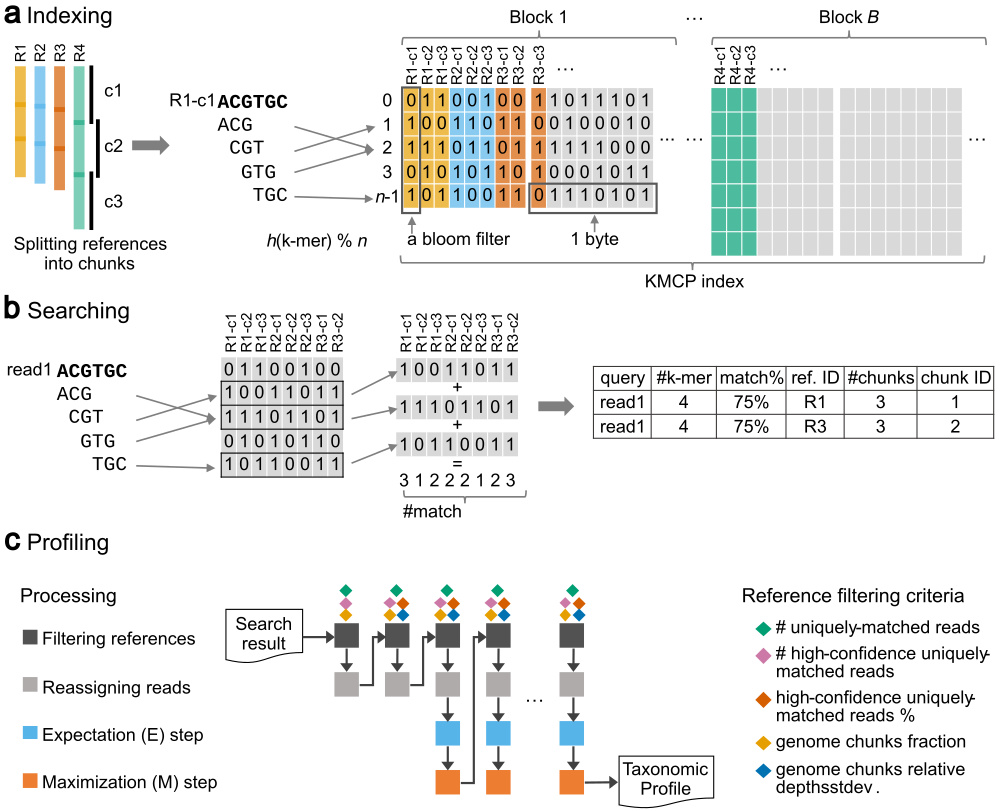
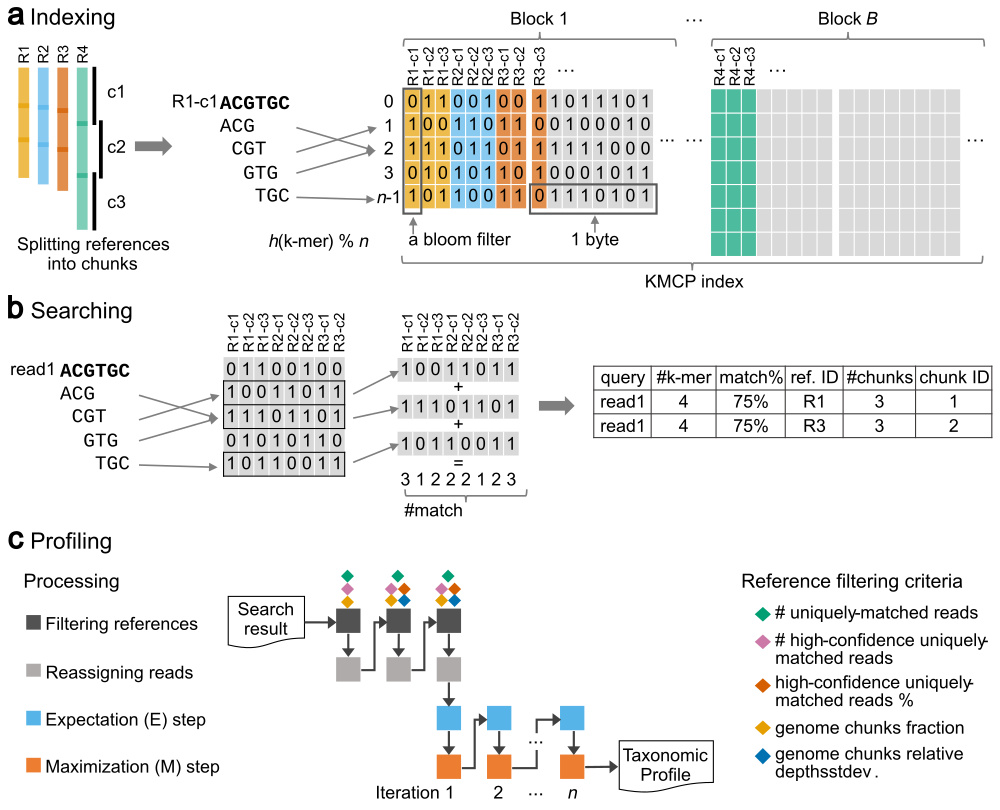
profile: do not filter reference during EM-step

diff --git a/kmcp/cmd/profile.go b/kmcp/cmd/profile.go
@@ -2287,7 +2287,7 @@ Examples:
 				for _, c1 = range t.UniqMatch {
 					t.SumUniqMatch += c1
 				}
-				if t.SumUniqMatch < minUReads {
+				if iter > 0 && t.SumUniqMatch < minUReads {
 					if debug {
 						if taxdb != nil {
 							fmt.Fprintf(outfhD, "failed3: %s (%s), 90th percentile: %.2f, %s: %.0f\n",
@@ -2307,7 +2307,7 @@ Examples:
 				for _, c1 = range t.UniqMatchHic {
 					t.SumUniqMatchHic += c1
 				}
-				if t.SumUniqMatchHic < minHicUreads {
+				if iter > 0 && t.SumUniqMatchHic < minHicUreads {
 					if debug {
 						if taxdb != nil {
 							fmt.Fprintf(outfhD, "failed3: %s (%s), 90th percentile: %.2f, %s: %.0f\n",
@@ -2324,7 +2324,7 @@ Examples:
 					continue
 				}
 
-				if t.SumUniqMatchHic < HicUreadsMinProp*t.SumUniqMatch {
+				if iter > 0 && t.SumUniqMatchHic < HicUreadsMinProp*t.SumUniqMatch {
 					if debug {
 						if taxdb != nil {
 							fmt.Fprintf(outfhD, "failed3: %s (%s), 90th percentile: %.2f, %s: %.4f (%.0f/%.0f)\n",
@@ -2350,7 +2350,7 @@ Examples:
 					t.SumMatch += c
 				}
 				t.FragsProp = t.FragsProp / float64(len(t.Match))
-				if t.FragsProp < minFragsProp {
+				if iter > 0 && t.FragsProp < minFragsProp {
 					if debug {
 						if taxdb != nil {
 							fmt.Fprintf(outfhD, "failed3: %s (%s), 90th percentile: %.2f, %s: %.1f %v\n",
@@ -2376,7 +2376,7 @@ Examples:
 				}
 
 				_, t.RelDepthStd = MeanStdev(t.RelDepth)
-				if t.RelDepthStd > maxFragsDepthStdev {
+				if iter > 0 && t.RelDepthStd > maxFragsDepthStdev {
 					if debug {
 						if taxdb != nil {
 							fmt.Fprintf(outfhD, "failed3: %s (%s), 90th percentile: %.2f, %s: %f\n",
